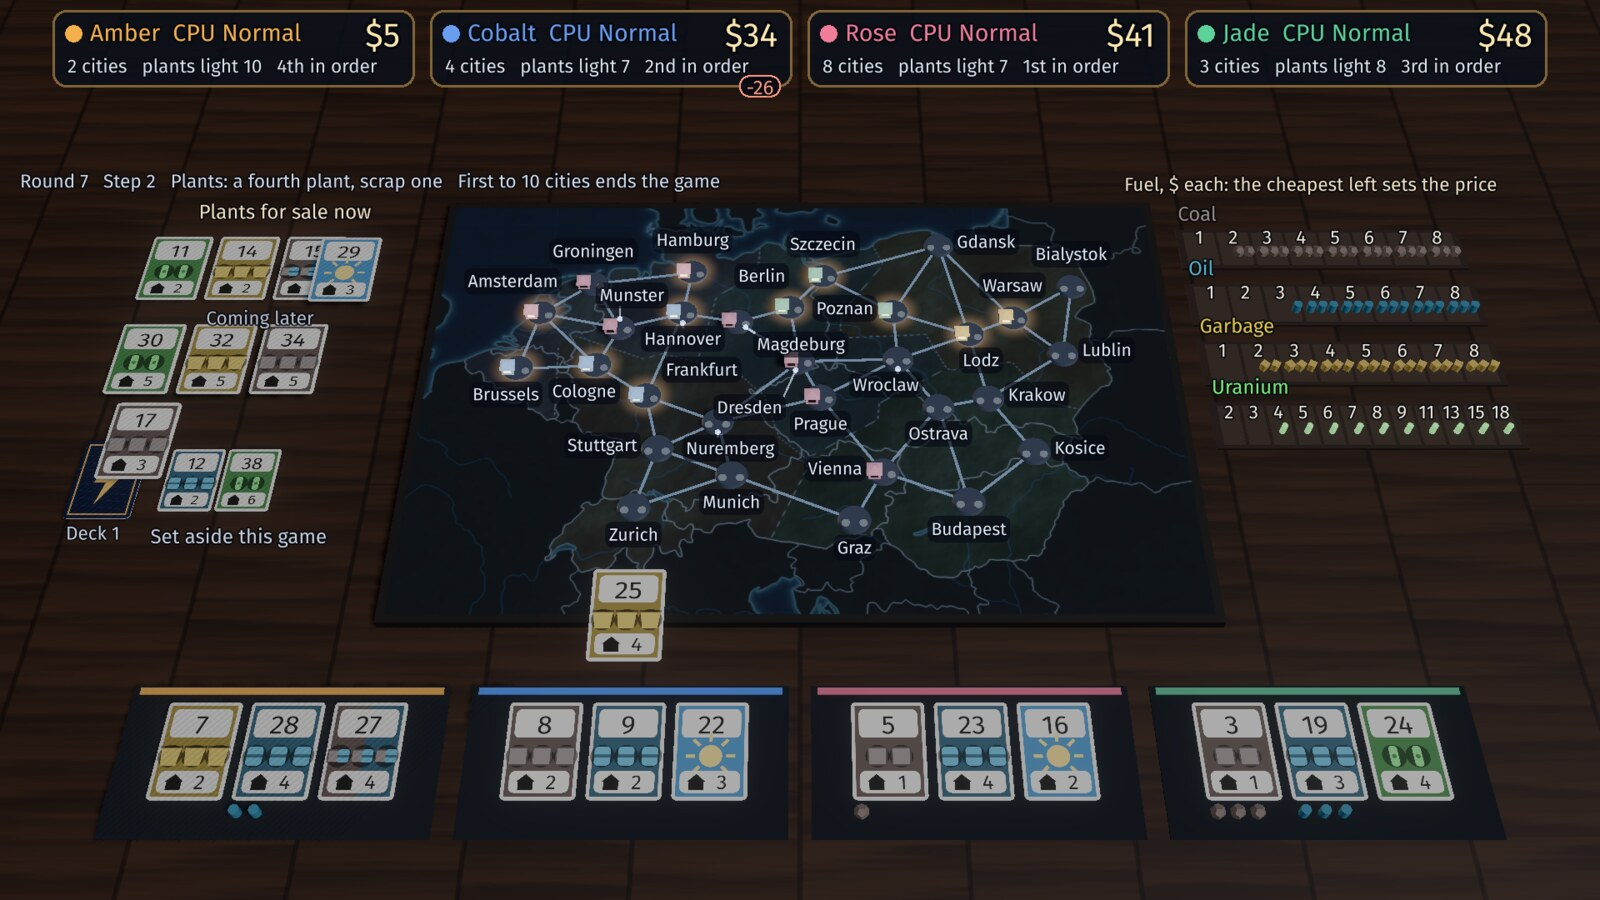
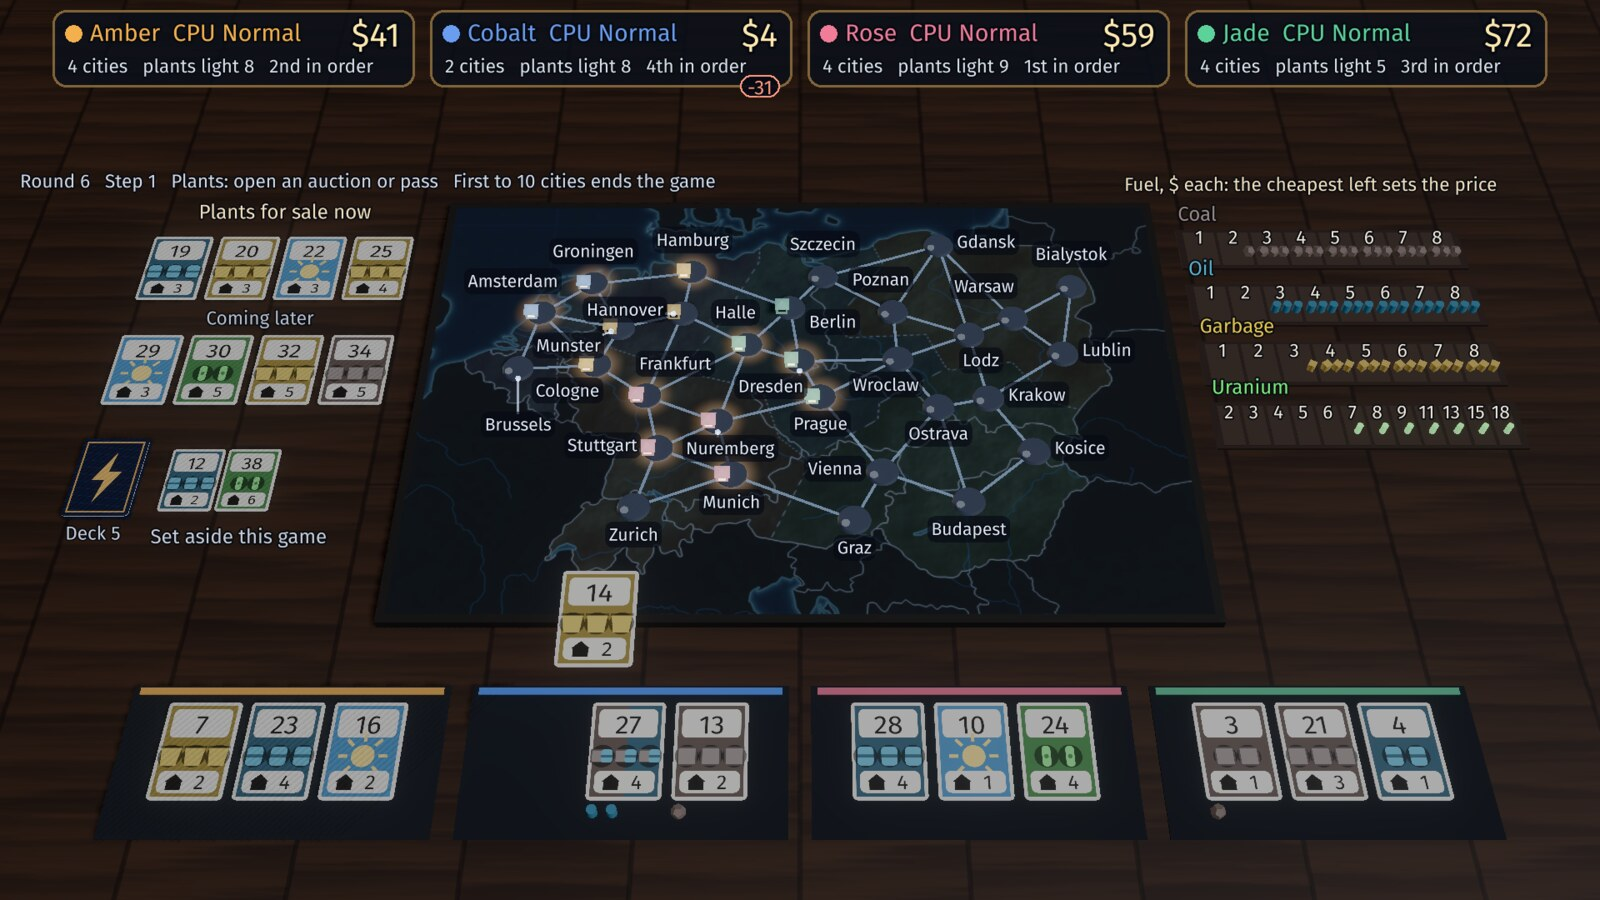
Kilowatt Country: every city name nearest its own dot, or a leader to it
A name placed beside a neighbouring city read as that city, so the map told the
wrong geography (on France, Auxerre's name sat up by Reims and Lille). The
label layout now weighs each city's dot: a name that ends up as near another
city's dot as its own gets a leader line to its own, leaders keep clear of
other cities, their houses and names, and long leaders cost more. The view
reports kc.label_misread (names nearer another dot with no leader), and the
play test checks it is 0 on every map and every set of regions; its control,
KILOWATTCOUNTRY_LABELS=footprint (leaders by the 0.3.0 footprint rule), must
fail it and does. On France, Auxerre (crowded in beside Paris) is skipped and
Berck-Plage takes its place; on Central Europe, Halle takes Magdeburg's.
Launcher art and the README screenshot are taken again.

diff --git a/games/kilowattcountry/src/view.c b/games/kilowattcountry/src/view.c
@@ -1063,13 +1063,15 @@ static struct {
   cw_rect core[KC_NCITY]; /* the middle of each city's plinth: a name or a leader over it hides the city */
   bool lead[KC_NCITY];    /* the name stands off from its city or nearer another: a leader line joins them */
   cw_vec2 lead_a[KC_NCITY], lead_b[KC_NCITY]; /* the leader: from the plinth's rim to the name's nearest point */
-  int overlaps, link_hits, strays;                   /* this map */
-  int worst_overlaps, worst_link_hits, worst_strays; /* the worst of every map a match can deal */
+  int overlaps, link_hits, strays, misread;                        /* this map */
+  int worst_overlaps, worst_link_hits, worst_strays, worst_misread; /* the worst of every map a match can deal */
+  bool footprint_rule; /* the control KILOWATTCOUNTRY_LABELS=footprint: leaders by the old footprint rule */
 } LB;
 int view_label_overlaps(void) { return LB.worst_overlaps; }
 int view_label_maps(void) { return LB.checked; }
 int view_label_link_hits(void) { return LB.worst_link_hits; }
 int view_label_strays(void) { return LB.worst_strays; }
+int view_label_misread(void) { return LB.worst_misread; }
 void view_label_rects(int32_t *out) {
   for (int c = 0; c < KC_NCITY; c++) {
     out[4 * c] = (int32_t)lroundf(LB.r[c].x), out[4 * c + 1] = (int32_t)lroundf(LB.r[c].y);
@@ -1129,10 +1131,27 @@ static bool label_strays(int c, cw_rect r, const bool *in, const cw_rect *city, 
     if (o != c && in[o] && rect_gap(r, city[o]) < own + margin) return true;
   return false;
 }
-/* the leader a name needs (it stands off from its city, or as near another): from the plinth's rim at cc to the name's
- * nearest point. False: the name sits against its own city and needs none */
-static bool label_leader(int c, cw_rect r, const bool *in, const cw_rect *city, cw_vec2 cc, float u, cw_vec2 *a, cw_vec2 *b) {
-  if (rect_gap(r, city[c]) <= 4 * u && !label_strays(c, r, in, city, 3 * u)) return false;
+/* how far a point (a city's dot) is from a name's rect */
+static float dot_dist(cw_vec2 p, cw_rect r) {
+  float dx = fmaxf(0, fmaxf(r.x - p.x, p.x - (r.x + r.w))), dy = fmaxf(0, fmaxf(r.y - p.y, p.y - (r.y + r.h)));
+  return sqrtf(dx * dx + dy * dy);
+}
+/* a name a player would read as another city's: some other city's dot is as near the name as its own dot (within
+ * margin), so the name alone tells the wrong geography */
+static bool label_misread(int c, cw_rect r, const bool *in, const cw_vec2 *at, float margin) {
+  float own = dot_dist(at[c], r);
+  for (int o = 0; o < KC_NCITY; o++)
+    if (o != c && in[o] && dot_dist(at[o], r) < own + margin) return true;
+  return false;
+}
+/* the leader a name needs (it stands off from its city, or nearer another city's dot than its own): from the plinth's
+ * rim to the name's nearest point. False: the name sits against its own city, nearest its own dot, and needs none.
+ * KILOWATTCOUNTRY_LABELS=footprint (a control) asks only whether another city's footprint is as near, as before */
+static bool label_leader(int c, cw_rect r, const bool *in, const cw_rect *city, const cw_vec2 *at, float u, cw_vec2 *a, cw_vec2 *b) {
+  bool off = rect_gap(r, city[c]) > 4 * u;
+  bool other = LB.footprint_rule ? label_strays(c, r, in, city, 3 * u) : label_misread(c, r, in, at, 4 * u);
+  if (!off && !other) return false;
+  cw_vec2 cc = at[c];
   cw_vec2 p = cw_v2(fminf(fmaxf(cc.x, r.x), r.x + r.w), fminf(fmaxf(cc.y, r.y), r.y + r.h));
   float dx = p.x - cc.x, dy = p.y - cc.y, d = sqrtf(dx * dx + dy * dy), rad = city[c].w * 0.3f;
   *a = d > rad ? cw_v2(cc.x + dx / d * rad, cc.y + dy / d * rad) : p;
@@ -1144,7 +1163,7 @@ static int leader_hits(int c, cw_vec2 a, cw_vec2 b, const bool *in, const cw_rec
   int n = 0;
   for (int o = 0; o < KC_NCITY; o++) {
     if (o == c || !in[o]) continue;
-    if (seg_hits_rect(a, b, LB.core[o])) n++;
+    if (seg_hits_rect(a, b, city[o])) n++; /* over or close by another plinth or its houses */
     if (LB.r[o].w > 0 && seg_hits_rect(a, b, LB.r[o])) n++;
   }
   return n;
@@ -1164,8 +1183,11 @@ static int label_cost(int c, cw_rect r, const bool *in, const cw_rect *city, con
   }
   if (r.x < board.x || r.y < board.y || r.x + r.w > board.x + board.w || r.y + r.h > board.y + board.h) cost += 1000;
   cw_vec2 la, lb;
-  if (label_leader(c, r, in, city, at[c], gap / 6, &la, &lb)) /* a leader: allowed, but never over another city or name */
-    cost += 30 + 2000 * leader_hits(c, la, lb, in, city);
+  if (label_leader(c, r, in, city, at, gap / 6, &la, &lb)) { /* a leader: allowed, short, never over another city or name */
+    float len = sqrtf((lb.x - la.x) * (lb.x - la.x) + (lb.y - la.y) * (lb.y - la.y));
+    cost += 30 + (int)(3 * len / (gap / 6)) + 2000 * leader_hits(c, la, lb, in, city);
+  }
+  if (label_misread(c, r, in, at, gap * (4.0f / 6))) cost += 300; /* best nearest its own dot, with no leader needed */
   for (int l = 0; l < KC_NLINK; l++) {
     if (!link_in[l]) continue;
     if (rect_hit(r, tag[l])) cost += 20;
@@ -1179,6 +1201,7 @@ static void layout_labels(int regions, cw_vec2 sz) {
   float u = sz.y / 720.0f;
   const char *mode = cw_test_env("KILOWATTCOUNTRY_LABELS");
   bool below = mode && strcmp(mode, "below") == 0;
+  LB.footprint_rule = mode && strcmp(mode, "footprint") == 0;
   cw_vec2 at[KC_NCITY], lsz[KC_NCITY];
   bool in[KC_NCITY];
   cw_rect city[KC_NCITY], tag[KC_MAX_LINK];
@@ -1270,11 +1293,12 @@ static void layout_labels(int regions, cw_vec2 sz) {
   /* what still collides (the check): names closer than 3 units to a name, or over their own city; strays: a name over
    * the middle of another city's plinth (it hides that city) or a leader over another city or name (it points the
    * wrong way); and (looser) names over another city's footprint, a cost tag or a link */
-  LB.overlaps = LB.link_hits = LB.strays = 0;
+  LB.overlaps = LB.link_hits = LB.strays = LB.misread = 0;
   for (int c = 0; c < KC_NCITY; c++) {
     if (!in[c]) continue;
     /* a name off its city, or nearer another, gets a leader; a leader over another city or name is a stray */
-    LB.lead[c] = label_leader(c, LB.r[c], in, city, at[c], u, &LB.lead_a[c], &LB.lead_b[c]);
+    LB.lead[c] = label_leader(c, LB.r[c], in, city, at, u, &LB.lead_a[c], &LB.lead_b[c]);
+    if (!LB.lead[c] && label_misread(c, LB.r[c], in, at, 0)) LB.misread++; /* nearer another dot, and no leader to say so */
     if (LB.lead[c]) LB.strays += leader_hits(c, LB.lead_a[c], LB.lead_b[c], in, city);
     for (int o = 0; o < KC_NCITY; o++)
       if (o != c && in[o] && rect_hit(LB.r[c], LB.core[o])) LB.strays++; /* a name hiding a city */
@@ -1293,7 +1317,7 @@ static void layout_labels(int regions, cw_vec2 sz) {
 
 static void place_labels(const kc_state *s, cw_vec2 sz) {
   bool resized = LB.sx != sz.x || LB.sy != sz.y;
-  if (resized) LB.checked = 0, LB.worst_overlaps = LB.worst_link_hits = LB.worst_strays = 0, LB.sx = sz.x, LB.sy = sz.y, LB.valid = false;
+  if (resized) LB.checked = 0, LB.worst_overlaps = LB.worst_link_hits = LB.worst_strays = LB.worst_misread = 0, LB.sx = sz.x, LB.sy = sz.y, LB.valid = false;
   /* the check covers every map a match can deal: each of the maps, each joined set of three, four or five regions on
    * it (placed for the check, then thrown away); one map a frame */
   if (LB.checked < KC_NMAPS) {
@@ -1305,6 +1329,7 @@ static void place_labels(const kc_state *s, cw_vec2 sz) {
         if (LB.overlaps > LB.worst_overlaps) LB.worst_overlaps = LB.overlaps;
         if (LB.link_hits > LB.worst_link_hits) LB.worst_link_hits = LB.link_hits;
         if (LB.strays > LB.worst_strays) LB.worst_strays = LB.strays;
+        if (LB.misread > LB.worst_misread) LB.worst_misread = LB.misread;
       }
     kc_use_map(keep);
     LB.checked++;

diff --git a/games/kilowattcountry/src/kc_data.h b/games/kilowattcountry/src/kc_data.h
@@ -141,7 +141,7 @@ static const kc_map_def kc_maps[KC_NMAPS] = {
     { { 0, 7, 13 }, { 0, 25, 7 }, { 1, 4, 14 }, { 1, 12, 8 }, { 2, 6, 11 }, { 2, 18, 9 }, { 2, 26, 9 }, { 3, 4, 7 }, { 3, 11, 10 }, { 3, 23, 6 }, { 3, 28, 13 }, { 4, 21, 7 }, { 5, 14, 9 }, { 5, 15, 7 }, { 5, 16, 11 }, { 5, 18, 9 }, { 6, 15, 7 }, { 6, 17, 14 }, { 6, 18, 8 }, { 6, 26, 12 }, { 7, 16, 12 }, { 8, 23, 13 }, { 8, 25, 7 }, { 9, 12, 8 }, { 9, 18, 9 }, { 9, 20, 10 }, { 10, 22, 13 }, { 10, 27, 7 }, { 11, 23, 8 }, { 13, 22, 14 }, { 13, 27, 16 }, { 14, 16, 8 }, { 14, 29, 7 }, { 16, 29, 8 }, { 17, 24, 8 }, { 17, 26, 10 }, { 18, 20, 9 }, { 19, 28, 13 }, { 19, 29, 10 }, { 21, 28, 11 }, { 22, 24, 13 }, { 22, 26, 10 }, { 23, 28, 13 }, { 25, 28, 6 } },
     { 2, 13, 26, 22, 12 }, { 6, 4, 1 },
     { { 7, 11, 14, 22, 26, 28 }, { 15, 23, 27, 30 }, { 31 } } },
-  { "france", "France", 54, 25,
+  { "france", "France", 52, 25,
     {
       { "Paris", 2, 0.5343f, 0.2847f },
       { "Marseille", 3, 0.6729f, 0.8403f },
@@ -153,7 +153,7 @@ static const kc_map_def kc_maps[KC_NMAPS] = {
       { "Bordeaux", 1, 0.4003f, 0.6859f },
       { "Montpellier", 3, 0.6041f, 0.8089f },
       { "Lille", 2, 0.5665f, 0.1066f },
-      { "Reims", 2, 0.6111f, 0.2435f },
+      { "Reims", 4, 0.6111f, 0.2435f },
       { "Le Havre", 2, 0.4318f, 0.2207f },
       { "Dijon", 4, 0.6561f, 0.4387f },
       { "Brest", 0, 0.2217f, 0.3310f },
@@ -167,14 +167,14 @@ static const kc_map_def kc_maps[KC_NMAPS] = {
       { "Belfort", 4, 0.7402f, 0.4058f },
       { "Saint-Brieuc", 0, 0.3003f, 0.3185f },
       { "Gap", 3, 0.7048f, 0.7141f },
-      { "Auxerre", 4, 0.5901f, 0.3900f },
       { "Rodez", 1, 0.5445f, 0.7347f },
       { "Annemasse", 4, 0.7121f, 0.5506f },
       { "Vichy", 3, 0.5835f, 0.5573f },
       { "Cherbourg", 0, 0.3529f, 0.2060f },
       { "Fougeres", 0, 0.3720f, 0.3348f },
+      { "Berck-Plage", 2, 0.4984f, 0.1293f },
     },
-    { { 0, 9, 10 }, { 0, 10, 7 }, { 0, 11, 9 }, { 0, 14, 9 }, { 0, 24, 8 }, { 1, 4, 8 }, { 1, 23, 8 }, { 2, 8, 12 }, { 2, 12, 9 }, { 2, 23, 9 }, { 2, 26, 7 }, { 2, 27, 7 }, { 3, 7, 10 }, { 3, 17, 8 }, { 3, 18, 8 }, { 3, 25, 7 }, { 4, 23, 7 }, { 5, 13, 12 }, { 5, 14, 8 }, { 5, 19, 7 }, { 5, 22, 9 }, { 5, 29, 7 }, { 6, 16, 7 }, { 6, 21, 7 }, { 7, 15, 9 }, { 7, 18, 9 }, { 7, 19, 8 }, { 8, 25, 7 }, { 9, 10, 9 }, { 9, 11, 12 }, { 10, 16, 8 }, { 10, 24, 9 }, { 11, 14, 9 }, { 11, 29, 8 }, { 12, 21, 8 }, { 12, 24, 7 }, { 12, 26, 8 }, { 12, 27, 9 }, { 13, 22, 7 }, { 14, 20, 10 }, { 14, 29, 6 }, { 15, 19, 10 }, { 15, 20, 9 }, { 15, 25, 10 }, { 15, 27, 9 }, { 16, 21, 9 }, { 17, 18, 13 }, { 20, 24, 7 }, { 20, 27, 7 }, { 21, 26, 9 }, { 22, 29, 7 }, { 23, 26, 9 }, { 25, 27, 10 }, { 28, 29, 8 } },
+    { { 0, 10, 7 }, { 0, 11, 9 }, { 0, 14, 9 }, { 0, 20, 10 }, { 0, 29, 9 }, { 1, 4, 8 }, { 1, 23, 8 }, { 2, 8, 12 }, { 2, 12, 9 }, { 2, 23, 9 }, { 2, 25, 7 }, { 2, 26, 7 }, { 3, 7, 10 }, { 3, 17, 8 }, { 3, 18, 8 }, { 3, 24, 7 }, { 4, 23, 7 }, { 5, 13, 12 }, { 5, 14, 8 }, { 5, 19, 7 }, { 5, 22, 9 }, { 5, 28, 7 }, { 6, 16, 7 }, { 6, 21, 7 }, { 7, 15, 9 }, { 7, 18, 9 }, { 7, 19, 8 }, { 8, 24, 7 }, { 9, 10, 9 }, { 9, 29, 6 }, { 10, 16, 8 }, { 11, 14, 9 }, { 11, 28, 8 }, { 12, 20, 10 }, { 12, 21, 8 }, { 12, 25, 8 }, { 12, 26, 9 }, { 13, 22, 7 }, { 14, 20, 10 }, { 14, 28, 6 }, { 15, 19, 10 }, { 15, 20, 9 }, { 15, 24, 10 }, { 15, 26, 9 }, { 16, 21, 9 }, { 17, 18, 13 }, { 20, 26, 7 }, { 21, 25, 9 }, { 22, 28, 7 }, { 23, 25, 9 }, { 24, 26, 10 }, { 27, 28, 8 } },
     { 6, 13, 27, 22, 12 }, { 8, 5, 1 },
     { { 7, 11, 13, 14, 21, 22, 26, 28 }, { 15, 23, 27, 29, 30 }, { 31 } } },
   { "iberia", "Iberia", 51, 25,
@@ -249,7 +249,7 @@ static const kc_map_def kc_maps[KC_NMAPS] = {
     { { 0, 10, 10 }, { 0, 13, 8 }, { 0, 15, 9 }, { 0, 17, 10 }, { 0, 25, 10 }, { 1, 3, 10 }, { 1, 7, 12 }, { 1, 23, 8 }, { 1, 26, 7 }, { 2, 7, 9 }, { 2, 9, 7 }, { 2, 11, 11 }, { 2, 15, 9 }, { 2, 27, 10 }, { 3, 14, 9 }, { 3, 16, 8 }, { 3, 20, 8 }, { 4, 19, 9 }, { 4, 24, 9 }, { 5, 16, 8 }, { 5, 22, 7 }, { 6, 17, 9 }, { 6, 21, 8 }, { 7, 8, 9 }, { 7, 14, 8 }, { 7, 27, 8 }, { 8, 14, 7 }, { 8, 27, 8 }, { 8, 28, 10 }, { 9, 25, 8 }, { 9, 29, 8 }, { 10, 17, 12 }, { 10, 25, 8 }, { 11, 27, 8 }, { 11, 28, 10 }, { 11, 29, 7 }, { 12, 13, 10 }, { 12, 15, 13 }, { 12, 18, 7 }, { 12, 26, 10 }, { 13, 15, 10 }, { 13, 17, 10 }, { 13, 21, 8 }, { 15, 26, 9 }, { 16, 20, 8 }, { 16, 23, 12 }, { 17, 21, 8 }, { 18, 23, 10 }, { 18, 26, 10 }, { 19, 24, 9 }, { 19, 28, 9 }, { 20, 22, 12 }, { 23, 26, 10 }, { 24, 28, 9 }, { 27, 28, 10 } },
     { 14, 25, 9, 23, 10 }, { 8, 5, 1 },
     { { 7, 11, 13, 14, 19, 25, 26, 28 }, { 15, 23, 27, 29, 30 }, { 31 } } },
-  { "central", "Central Europe", 53, 25,
+  { "central", "Central Europe", 55, 25,
     {
       { "Amsterdam", 0, 0.1426f, 0.2990f },
       { "Berlin", 2, 0.4863f, 0.2848f },
@@ -279,10 +279,10 @@ static const kc_map_def kc_maps[KC_NMAPS] = {
       { "Bialystok", 4, 0.8797f, 0.2272f },
       { "Ostrava", 3, 0.6828f, 0.5393f },
       { "Groningen", 0, 0.2103f, 0.2190f },
-      { "Magdeburg", 2, 0.4145f, 0.3220f },
+      { "Halle", 2, 0.4286f, 0.3835f },
       { "Kosice", 3, 0.8029f, 0.6453f },
     },
-    { { 0, 8, 11 }, { 0, 9, 9 }, { 0, 23, 10 }, { 0, 27, 8 }, { 1, 15, 9 }, { 1, 21, 7 }, { 1, 28, 7 }, { 2, 18, 7 }, { 2, 27, 11 }, { 3, 5, 11 }, { 3, 26, 13 }, { 3, 29, 11 }, { 4, 13, 7 }, { 4, 19, 13 }, { 4, 22, 8 }, { 4, 25, 9 }, { 5, 7, 12 }, { 5, 24, 8 }, { 5, 26, 11 }, { 6, 14, 10 }, { 6, 17, 8 }, { 6, 20, 12 }, { 6, 24, 15 }, { 7, 11, 11 }, { 7, 15, 7 }, { 7, 17, 12 }, { 8, 9, 9 }, { 8, 12, 8 }, { 8, 23, 7 }, { 10, 13, 10 }, { 10, 22, 11 }, { 10, 26, 7 }, { 10, 29, 9 }, { 11, 13, 9 }, { 11, 15, 11 }, { 11, 16, 8 }, { 11, 26, 9 }, { 12, 14, 8 }, { 12, 17, 9 }, { 12, 18, 12 }, { 13, 16, 10 }, { 13, 19, 14 }, { 14, 17, 8 }, { 14, 20, 9 }, { 15, 17, 12 }, { 15, 28, 10 }, { 16, 19, 12 }, { 16, 21, 10 }, { 18, 23, 8 }, { 18, 28, 7 }, { 19, 21, 13 }, { 22, 25, 11 }, { 23, 27, 8 } },
+    { { 0, 8, 11 }, { 0, 9, 9 }, { 0, 23, 10 }, { 0, 27, 8 }, { 1, 2, 12 }, { 1, 15, 9 }, { 1, 21, 7 }, { 1, 28, 8 }, { 2, 18, 7 }, { 2, 27, 11 }, { 3, 5, 11 }, { 3, 26, 13 }, { 3, 29, 11 }, { 4, 13, 7 }, { 4, 19, 13 }, { 4, 22, 8 }, { 4, 25, 9 }, { 5, 7, 12 }, { 5, 24, 8 }, { 5, 26, 11 }, { 6, 14, 10 }, { 6, 17, 8 }, { 6, 20, 12 }, { 6, 24, 15 }, { 7, 11, 11 }, { 7, 15, 7 }, { 7, 17, 12 }, { 8, 9, 9 }, { 8, 12, 8 }, { 8, 23, 7 }, { 10, 13, 10 }, { 10, 22, 11 }, { 10, 26, 7 }, { 10, 29, 9 }, { 11, 13, 9 }, { 11, 15, 11 }, { 11, 16, 8 }, { 11, 26, 9 }, { 12, 14, 8 }, { 12, 17, 9 }, { 12, 18, 12 }, { 12, 28, 13 }, { 13, 16, 10 }, { 13, 19, 14 }, { 14, 17, 8 }, { 14, 20, 9 }, { 15, 28, 7 }, { 16, 19, 12 }, { 16, 21, 10 }, { 17, 28, 11 }, { 18, 23, 8 }, { 18, 28, 9 }, { 19, 21, 13 }, { 22, 25, 11 }, { 23, 27, 8 } },
     { 6, 13, 27, 22, 12 }, { 8, 5, 1 },
     { { 7, 11, 13, 14, 21, 22, 26, 28 }, { 15, 23, 27, 29, 30 }, { 31 } } },
 };

diff --git a/games/kilowattcountry/src/main.c b/games/kilowattcountry/src/main.c
@@ -16,7 +16,9 @@
  * seat), kc.cities (per seat), kc.powered (per seat), kc.hash (the match's state hash, low 32 bits), kc.matches,
  * kc.games_done, kc.moving, kc.lit (houses glowing), kc.label_overlaps (city names running into a name or on their own city, the
  * worst over every map; KILOWATTCOUNTRY_LABELS=below puts each under its city as before), kc.label_link_hits (names
- * over another city, a cost tag or a link), kc.label_strays (names hiding another city, or leaders over another city or name), kc.label_rect (each name's rect, then each city's footprint), kc.cursor (the person's target), kc.ntargets, kc.help, kc.pointer_picks,
+ * over another city, a cost tag or a link), kc.label_strays (names hiding another city, or leaders over another city or name),
+ * kc.label_misread (names nearer another city's dot than their own with no leader; KILOWATTCOUNTRY_LABELS=footprint draws
+ * leaders by the old footprint rule, a control), kc.label_rect (each name's rect, then each city's footprint), kc.cursor (the person's target), kc.ntargets, kc.help, kc.pointer_picks,
  * kc.target_px (each target's canvas point: tests tap there), kc.target_kind (the move kind a confirm on each plays),
  * kc.pad_kinds and kc.pointer_kinds (people's moves by kind and input), kc.last_kind, kc.kinds_used (move kinds people
  * used), kc.nplants, kc.stored (fuel held, per seat), kc.auc_plant (its number), kc.auc_bid, kc.auc_in (seat bits).
@@ -59,7 +61,7 @@ static struct {
   uint32_t want_hash, want_input;
   int32_t busy, mode, help, pointer_picks, replaying, replay_done, replay_match, replay_hash_match;
   int32_t target_px[2 * KG_MAX_TARGETS];
-  int32_t ticks, games_done, round, step, phase, turn, decisions, cpu_moves, over, winner, matches, moving, lit, cursor, ntargets, label_overlaps, label_hits, label_strays;
+  int32_t ticks, games_done, round, step, phase, turn, decisions, cpu_moves, over, winner, matches, moving, lit, cursor, ntargets, label_overlaps, label_hits, label_strays, label_misread;
   int32_t money[KC_MAX_P], cities[KC_MAX_P], powered[KC_MAX_P], nplants[KC_MAX_P], stored[KC_MAX_P];
   int32_t pad_kinds[KC_M_DRAW], pointer_kinds[KC_M_DRAW], last_kind, kinds_used, auc_plant, auc_bid, auc_in;
   int32_t target_kind[KG_MAX_TARGETS], label_rect[8 * KC_NCITY], map_now, setup_now, map_picks, label_maps;
@@ -213,6 +215,7 @@ static void init(void *user) {
   cw_debug_i32("kc.label_overlaps", &M.label_overlaps);
   cw_debug_i32("kc.label_link_hits", &M.label_hits);
   cw_debug_i32("kc.label_strays", &M.label_strays);
+  cw_debug_i32("kc.label_misread", &M.label_misread);
   cw_debug_field("kc.label_rect", M.label_rect, CW_DBG_I32, 8 * KC_NCITY);
   cw_debug_i32("kc.cursor", &M.cursor);
   cw_debug_i32("kc.map", &M.map_now);
@@ -334,6 +337,7 @@ static void update(void *user, double dt) {
   M.label_overlaps = view_label_overlaps();
   M.label_hits = view_label_link_hits();
   M.label_strays = view_label_strays();
+  M.label_misread = view_label_misread();
   view_label_rects(M.label_rect);
   M.label_maps = view_label_maps();
 }

diff --git a/games/kilowattcountry/src/view.h b/games/kilowattcountry/src/view.h
@@ -23,6 +23,9 @@ int view_label_link_hits(void);
 /* city names that mislead: a name over the middle of another city's plinth, or a leader (drawn from a name that had to
  * stand off from its city) over another city or name; the worst over every map a match can deal (a debug field) */
 int view_label_strays(void);
+/* city names nearer another city's dot than their own with no leader line to their own: a player would read them as
+ * that city's (the worst over every map a match can deal; a debug field) */
+int view_label_misread(void);
 /* each city name's rect on this map, then each city's footprint, canvas units (x, y, w, h; a name of w 0 is not
  * in play): a debug field of 8 * KC_NCITY */
 void view_label_rects(int32_t *out);

diff --git a/README.md b/README.md
@@ -128,7 +128,7 @@ leftover favour score, and every empty pane costs a point; alone, you try to bea
 
 ### Kilowatt Country
 
-![Kilowatt Country, round 7 on the Central Europe map: a night map with Amsterdam, Berlin, Prague, Vienna, Warsaw and Budapest among thirty named real cities, houses in four company colours glowing in the north-west and Poland, plants for sale on the left, the fuel market on the right, and each company's plant cards along the near edge](docs/screenshots/kilowattcountry.jpg)
+![Kilowatt Country, round 6 on the Central Europe map: a night map with Amsterdam, Berlin, Prague, Vienna, Warsaw and Budapest among thirty named real cities, houses in four company colours glowing from the Low Countries to Dresden, plants for sale on the left, the fuel market on the right, and each company's plant cards along the near edge](docs/screenshots/kilowattcountry.jpg)
 Bid for power plants at auction, buy coal, oil, garbage or uranium as prices climb, and wire houses into real cities
 across a night map, paying for every link from your network by its real distance. Each round your plants burn their
 fuel to light your cities and pay you for each one lit. When a company reaches the city goal, the most cities lit that

diff --git a/CHANGELOG.md b/CHANGELOG.md
@@ -1,5 +1,13 @@
 # Changelog
 
+## 0.3.1
+
+- **Kilowatt Country:** every city name now stands nearest its own city's dot, or has a leader line to it, so the
+  names tell the real geography on all seven maps (a name drawn beside a neighbouring city read as that city).
+  Leaders keep clear of other cities and their houses. On France, Berck-Plage on the north coast takes the place of
+  Auxerre, crowded in beside Paris; on Central Europe, Halle takes Magdeburg's place; so every name finds a clear
+  spot. The play test checks this on every map and every set of regions, with a control that must fail.
+
 ## 0.3.0
 
 Every game on engine v0.84.0, with How to play and Credits on the title and each move type checked on the pad and
